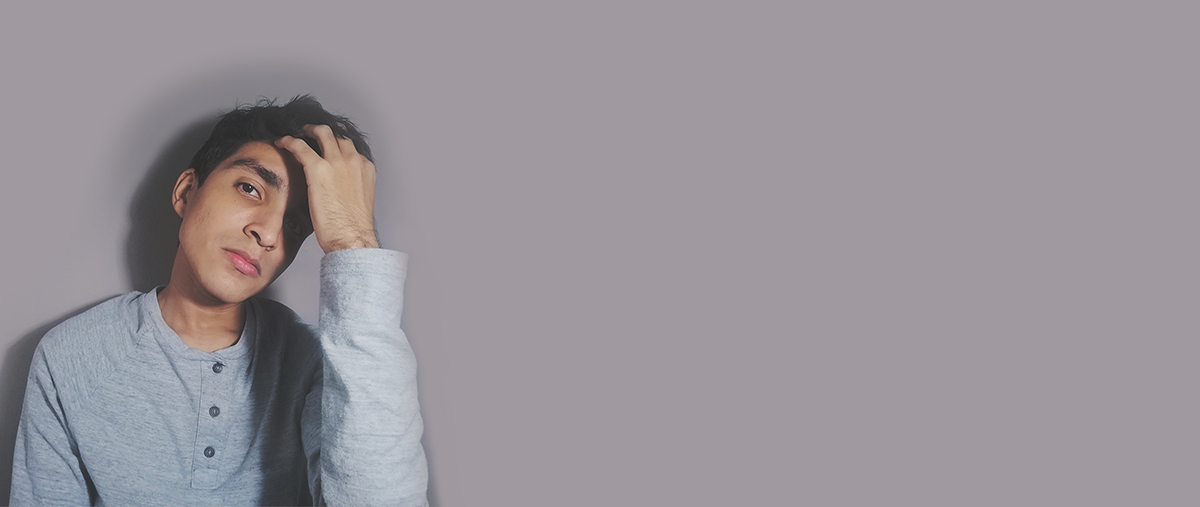
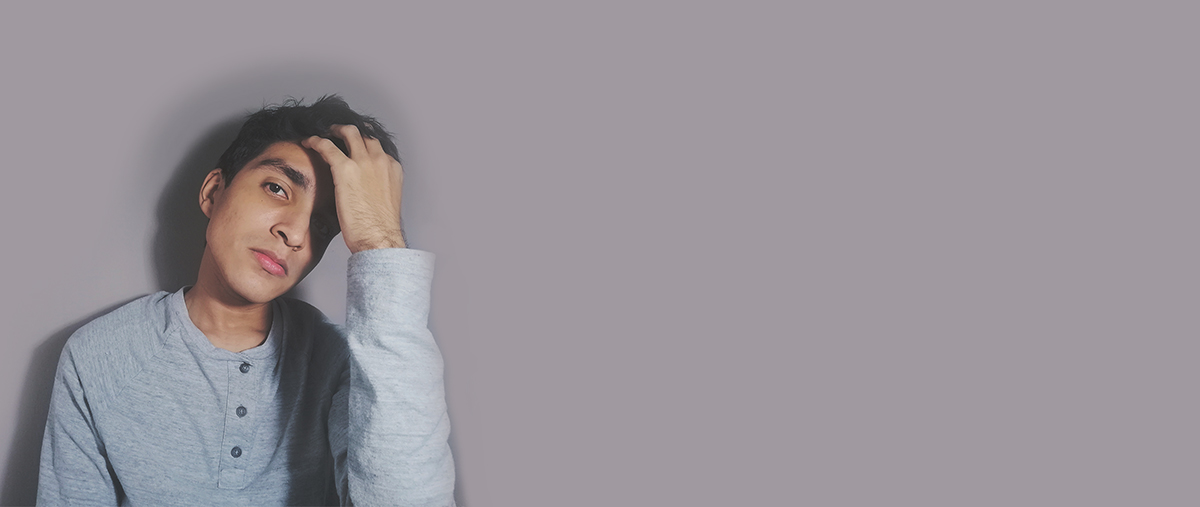
cabecera fix

Changed region(s): [[0.0, 0.1775, 0.4008, 1.0]]

diff --git a/_layouts/index.html b/_layouts/index.html
@@ -120,25 +120,21 @@
       </div>  
     </nav>
     <section id="dark" class="cabecera text-center text-dark py-5">
-      <div class="container py-5 my-5">
+      <div class="container pt-4 cabecera-adjust">
         <h1 class="display-4 mt-3 text-uppercase" data-aos="zoom-in">Bayza</h1>
         <h4 class="my-3 font-weight-light" data-aos="zoom-in">Panamanian musician and producer</h4>
         <div class="row">
           <div class="col-12 mb-2 justify-content-center">
-            <div data-aos="flip-left">
-              <span>
-                <a href="#music" type="button" class="btn btn-outline-dark px-5 py-2 mb-2">
-                  <h5 class="font-weight-light m-0 text-uppercase">Music</h5>
-                </a>
-              </span>
-            </div>
-            <div data-aos="flip-left">
-              <span>
-                <a href="#contact" type="button" class="btn btn-outline-dark px-5 py-2 mb-2">
-                  <h5 class="font-weight-light m-0 text-uppercase">Contact</h5>
-                </a>
-              </span>
-            </div>
+            <span>
+              <a data-aos="flip-right" href="#music" type="button" class="btn btn-outline-dark px-5 py-2 mb-2">
+                <h5 class="font-weight-light m-0 text-uppercase">Music</h5>
+              </a>
+            </span>
+            <span>
+              <a data-aos="flip-right" href="#contact" type="button" class="btn btn-outline-dark px-5 py-2 mb-2">
+                <h5 class="font-weight-light m-0 text-uppercase">Contact</h5>
+              </a>
+            </span>
           </div>
         </div>
       </div>

diff --git a/css/bayza.css b/css/bayza.css
@@ -17,7 +17,7 @@ h1 {
 }
 
 .cabecera {
-    background: linear-gradient(rgba(0, 0, 0, 0), rgba(0, 0, 0, 0.16)),url(../images/ahmed_bannerweb3.jpg);
+    background: linear-gradient(rgba(0, 0, 0, 0.16), rgba(0, 0, 0, 0.16)),url(../images/ahmed_bannerweb3.jpg);
     background-repeat: no-repeat;
     background-position: center center;
     background-size: cover;
@@ -328,5 +328,18 @@ b a:hover {
         background-repeat: no-repeat;
         background-position: center center;
         background-size: cover;
+    }
+}
+
+.cabecera-adjust{
+    padding-bottom: .5rem;
+    margin-bottom: 9rem;
+    margin-top: 9rem;
+}
+@media only screen and (max-width: 767px){
+    .cabecera-adjust{
+        padding-bottom: 0;
+        margin-bottom: 0;
+        margin-top: 0;
     }
 }
